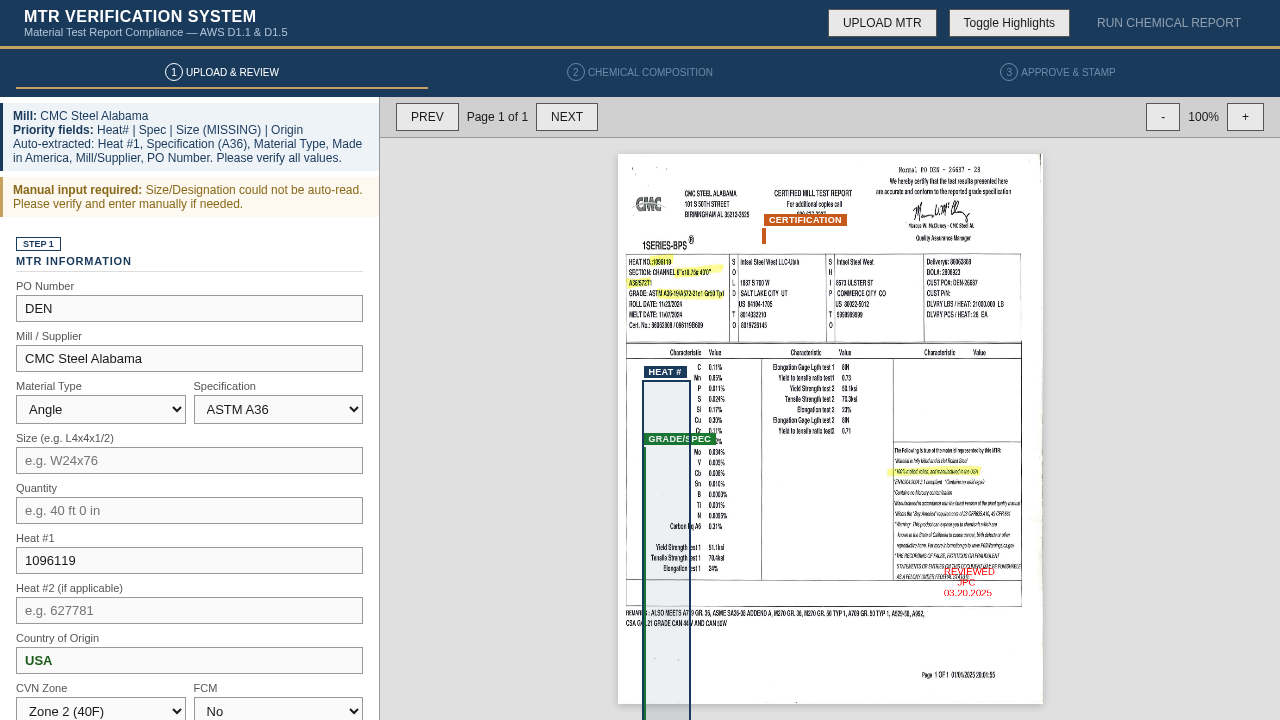
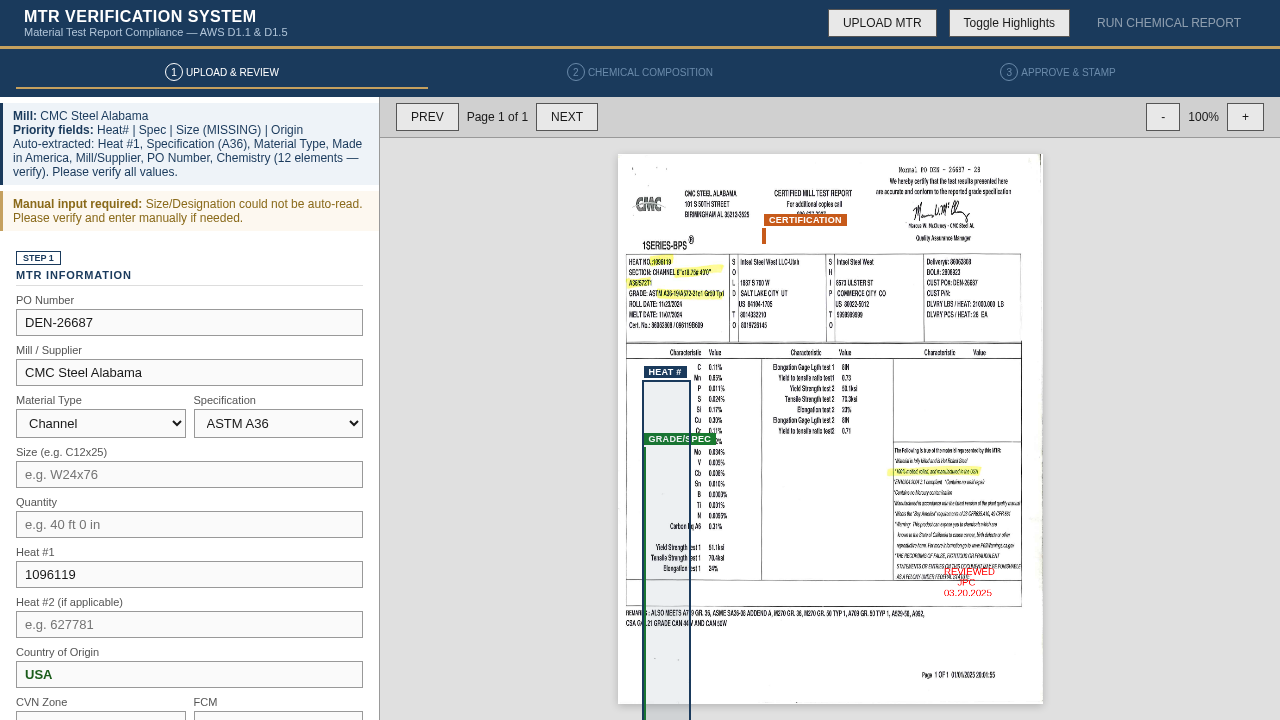
Auto-commit agent changes

diff --git a/conversations/6a6b81c94bc0607c48a32cc0/mtr_verifier.html b/conversations/6a6b81c94bc0607c48a32cc0/mtr_verifier.html
@@ -1631,7 +1631,7 @@ function parseMtrText(text, area, allOcrWords) {
 
   // Strategy 1: GRADE label parsing (most reliable for scanned MTRs)
   // Handles "GRADE: ASTM A709-21 Gr50W" format
-  var gradeLabelMatch = flat.match(/GRADE\s*[:\-]?\s*(?:ASTM\s*|AASHTO\s*)?(SA|A)?(\d{2,3})[\d\-\/\.\s]*(?:Gr(?:ade)?\.?\s*)?(\d{0,2})([Ww]?)/i);
+  var gradeLabelMatch = flat.match(/GRADE\s*[:\-]?\s*(?:ASTM\s*|AASHTO\s*)?(SA|A)?(\d{2,3})[\d\-\/\.\s]*(?:Gr(?:ade)?\.?\s*)?(\d{0,2})\s*([WwBbCc]?)\b/i);
   if (gradeLabelMatch) {
     var specNum = gradeLabelMatch[2];
     var gradeNum = gradeLabelMatch[3];
@@ -1652,7 +1652,11 @@ function parseMtrText(text, area, allOcrWords) {
     } else if (specNum === '709') {
       specDetected = 'A709-50';
     } else if (specNum === '500') {
-      specDetected = gradeNum === 'C' ? 'A500-C' : 'A500-B';
+      // A500 Grade B or C — grade letter captured in isW position
+      var gradeLetter = gradeLabelMatch[4] ? gradeLabelMatch[4].toUpperCase() : '';
+      if (gradeLetter === 'C') specDetected = 'A500-C';
+      else if (gradeLetter === 'B') specDetected = 'A500-B';
+      else specDetected = gradeNum === 'C' ? 'A500-C' : 'A500-B';
     }
   }
 
@@ -1695,17 +1699,21 @@ function parseMtrText(text, area, allOcrWords) {
       if (specSelect.options[i].value === specDetected) { specSelect.selectedIndex = i; break; }
     }
     specSelect.dataset.detected = '1';
-    onMaterialChange();
     found.push('Specification (' + specDetected + ')');
   }
 
   // ========== STEP 3: MATERIAL TYPE ==========
   var matType = template.products[0] || null;
   if (/\bW\d+\s*[xX]\s*\d+/i.test(flat)) matType = 'beam';
-  else if (/\bC\d+\s*[xX]\s*\d+/i.test(flat)) matType = 'channel';
-  else if (/\bL\d+\s*[xX]\s*\d+/i.test(flat)) matType = 'angle';
-  else if (/HSS|HOLLOW\s+STRUCT/i.test(flat)) matType = /SQUARE/i.test(flat) ? 'hss-square' : 'hss-round';
-  else if (/PLATE|THICK|\d+\.?\d*\s*x\s*\d+\.?\d*\s*x\s*\d/i.test(flat)) matType = 'plate';
+  else if (/HSS|HOLLOW\s+STRUCT/i.test(flat)) matType = /SQUARE|RECT/i.test(flat) ? 'hss-square' : 'hss-round';
+  else if (/\bCHANNEL\b/i.test(flat)) matType = 'channel';
+  else if (/\bANGLE\b/i.test(flat)) matType = 'angle';
+  else if (/\bPLATE\b/i.test(flat)) matType = 'plate';
+  else if (/\bFLAT\s*BAR\b/i.test(flat)) matType = 'flatbar';
+  else if (/\bL\s*\d+\s*[xX]\s*\d+/i.test(flat)) matType = 'angle';
+  else if (/\bC\s*\d+\s*[xX]\s*\d+/i.test(flat)) matType = 'channel';
+  else if (template.products.indexOf('plate') !== -1 && /PLATE|THICK|\d+\.?\d*\s*x\s*\d+\.?\d*\s*x\s*\d/i.test(flat)) matType = 'plate';
+  else if (!matType && /\d+\.?\d*\s*x\s*\d+\.?\d*\s*x\s*\d/i.test(flat)) matType = 'plate';
   if (matType) {
     var matSelect = document.getElementById('mat-type');
     for (var i = 0; i < matSelect.options.length; i++) {
@@ -1766,12 +1774,20 @@ function parseMtrText(text, area, allOcrWords) {
   }
 
   // ========== STEP 7: PO NUMBER ==========
-  var poMatch = flat.match(/\b(?:P\.?O\.?|PURCHASE\s+ORDER)\s*(?:NO\.?|NUMBER|#)?\s*[:\-]?\s*([A-Za-z0-9][A-Za-z0-9\-]{2,19})/i);
-  if (poMatch) {
-    var poVal = poMatch[1].trim();
-    if (!/^(BOX|BOX\d|N\/A|NONE|sma|ured)$/i.test(poVal)) {
-      document.getElementById('po-number').value = poVal;
+  // PO extraction — strict: only short alphanumeric PO numbers
+  var poPatterns = [
+    /P\.?O\.?\s*(?:NO\.?|NUMBER|#)?\s*[:\-]\s*(\d{3,10})/i,
+    /P\.?O\.?\s*(?:NO\.?|NUMBER|#)?\s*[:\-]\s*([A-Z]{2,5}-\d{3,8})/i,
+    /P\.?O\.?\s*(?:NO\.?|NUMBER|#)?\s*[:\-]\s*([A-Z]{2,5}\d{3,8})/i,
+    /CUSTOMER\s+P\.?O\.?\s*(?:NO\.?|NUMBER|#)?\s*[:\-]?\s*(\d{3,10})/i,
+    /ORDER\s*(?:NO\.?|NUMBER|#)?\s*[:\-]?\s*([A-Z]{2,5}-?\d{3,8})/i,
+  ];
+  for (var pi = 0; pi < poPatterns.length; pi++) {
+    var poMatch = flat.match(poPatterns[pi]);
+    if (poMatch) {
+      document.getElementById('po-number').value = poMatch[1].trim();
       found.push('PO Number');
+      break;
     }
   }
 
@@ -1793,12 +1809,13 @@ function parseMtrText(text, area, allOcrWords) {
 
   var chemWarnings = [];
 
-  // Table-aware chemistry extraction with mill template ranges
+  var chemFoundPushed = false;
   if (allOcrWords.length > 0) {
     var tblChem = extractChemFromWords(allOcrWords, template);
     if (Object.keys(tblChem).length >= 3) {
       Object.assign(chem1, tblChem);
       found.push('Chemistry (' + Object.keys(tblChem).length + ' elements — verify)');
+      chemFoundPushed = true;
     }
   }
 
@@ -1848,7 +1865,8 @@ function parseMtrText(text, area, allOcrWords) {
     return out;
   }
 
-  if (Object.keys(chem1).length < 3) {
+  // Always run flat-text fallback to fill gaps from table-aware extraction
+  {
     if (heatNums.length >= 2) {
       var idx1 = flat.indexOf(heatNums[0]);
       var idx2 = flat.indexOf(heatNums[1]);
@@ -1861,7 +1879,7 @@ function parseMtrText(text, area, allOcrWords) {
         for (var ek2 in v2) { if (!chem2[ek2] && validValue(ek2, v2[ek2])) chem2[ek2] = v2[ek2]; }
       }
     }
-    if (Object.keys(chem1).length < 3) {
+    {
       var v = findLabelValuePairs(flat);
       if (Object.keys(v).length < 2) v = findTableRow(flat);
       for (var evk in v) { if (!chem1[evk] && validValue(evk, v[evk])) chem1[evk] = v[evk]; }
